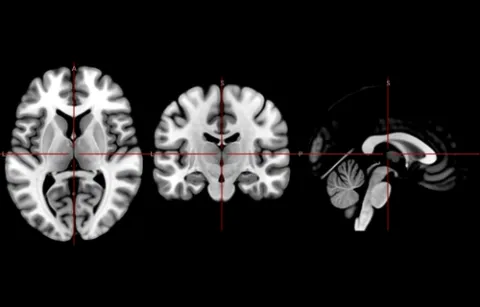
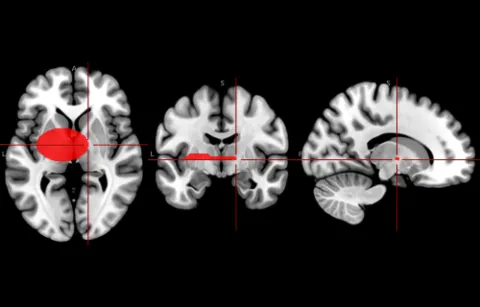
docs(docs-site): show each extension demo's result in its thumbnail
The drawing, magic wand, image processing, save-as-HTML and niimath demos
all opened on the same MNI152 view, so their thumbnails matched. The
capture now uses each tool first: interpolation between two drawn
outlines, a magic-wand region, Otsu with its defaults, a sagittal slice,
and niimath smoothing.

Claude-Session: https://claude.ai/code/session_01F6ttnTcNvzwrxgmhcxwGhP

Changed region(s): [[0.0, 0.2052, 1.0, 0.7915]]

diff --git a/apps/docs/scripts/screenshots.ts b/apps/docs/scripts/screenshots.ts
@@ -30,6 +30,61 @@ const PREPARE: Record<string, (page: Page) => Promise<Clip | undefined>> = {
     await page.locator('#fontSlide').fill('20')
     return { x: 260, y: 0, width: 480, height: 360 }
   },
+  // The extension demos all open on the same MNI152 view; show each tool's result.
+  'demo-ext-image-processing-imgproc': async (page) => {
+    await page.selectOption('#transformSelect', 'otsu')
+    await page.click('#applyBtn') // the options dialog, left at its defaults
+    return undefined
+  },
+  'demo-ext-niimath': async (page) => {
+    await page.click('.tab-btn[data-tab="tools"]')
+    await page.selectOption('#operatorSelect', '-s') // Gaussian smoothing, 3 mm
+    await page.click('#addOperatorBtn')
+    await page.click('#runBtn:not([disabled])')
+    return undefined
+  },
+  'demo-ext-save-html': async (page) => {
+    await page.selectOption('#sliceType', '2') // a single sagittal slice
+    return undefined
+  },
+  'demo-ext-drawing-magic-wand': async (page) => {
+    await page.selectOption('#sliceType', '0') // one axial slice
+    await page.waitForTimeout(500)
+    const r = await canvasBox(page)
+    // The default tolerance floods the whole brain; a tight one stays in
+    // the white matter around the seed (left frontal).
+    await page.locator('#toleranceSlider').fill('12')
+    await page.mouse.click(r.x + r.width * 0.45, r.y + r.height * 0.3)
+    return undefined
+  },
+  'demo-ext-drawing-drawing': async (page) => {
+    await page.selectOption('#sliceType', '0')
+    await page.click('#enableDrawBtn')
+    await page.check('#penFilled')
+    await page.waitForTimeout(500)
+    const r = await canvasBox(page)
+    const loop = async (cx: number, cy: number, rad: number) => {
+      const pt = (a: number) => [
+        r.x + r.width * (cx + rad * Math.cos(a)),
+        r.y + r.height * (cy + rad * Math.sin(a)),
+      ]
+      const [x0, y0] = pt(0)
+      await page.mouse.move(x0, y0)
+      await page.mouse.down()
+      for (let i = 1; i <= 24; i++) {
+        const [x, y] = pt((i / 24) * 2 * Math.PI)
+        await page.mouse.move(x, y)
+      }
+      await page.mouse.up()
+    }
+    // Two outlines eight slices apart; Interpolate fills the slices between.
+    await loop(0.42, 0.4, 0.06)
+    for (let i = 0; i < 8; i++) await page.mouse.wheel(0, -100)
+    await loop(0.46, 0.45, 0.09)
+    await page.click('#interpolateBtn')
+    await page.selectOption('#sliceType', '3') // A+C+S+R shows the filled run
+    return undefined
+  },
   'demo-ext-dcm2niix': async (page) => {
     await page.click('#loadManifestBtn')
     return undefined
@@ -62,8 +117,15 @@ const PREPARE: Record<string, (page: Page) => Promise<Clip | undefined>> = {
     return { x: r.x + (r.width - width) / 2, y: r.y, width, height: r.height }
   },
 }
+async function canvasBox(page: Page): Promise<Clip> {
+  const box = await page.locator('canvas').first().boundingBox()
+  if (!box) throw new Error('no canvas')
+  return box
+}
+
 // Examples that stream for a while before their first useful frame.
 const SLOW: Record<string, number> = {
+  'demo-ext-niimath': 10000,
   // Path-traced: give the progressive render time to converge.
   'cinematic-mr-siam': 10000,
   'cinematic-mr-mni152-tract': 10000,
